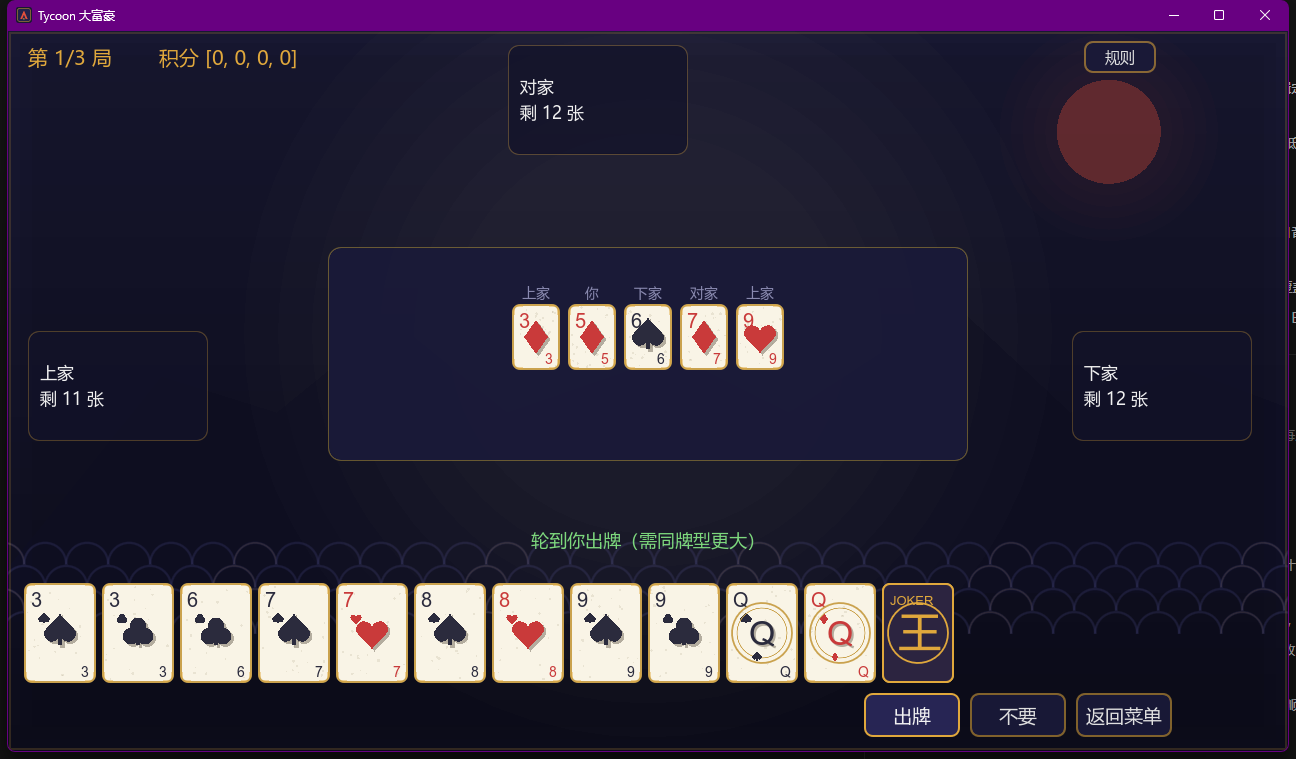
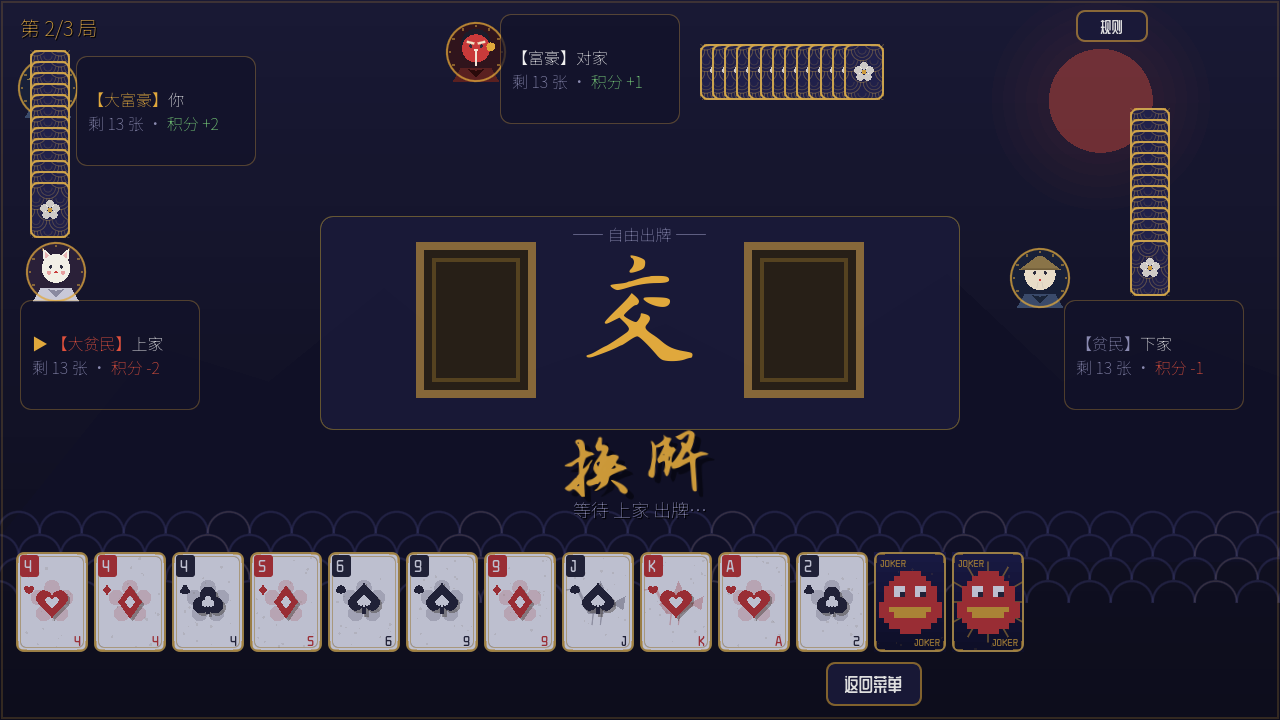
docs(M4/M2): 交付美术风格指南 + 刷新实机截图 + 协议版本标注
- 新增 docs/美术风格指南.md(计划 §5.1 交付项): 风格关键词/界面色板/
  身份色/四套卡面主题/卡面解剖/字体层级/动效规格/禁止事项
- docs/screenshots/windows_table.png 刷新为当前版本
  (身份前置显示/四主题卡面/达摩JOKER/牌背纹样)
- 协议.md 标注 PROTOCOL_VERSION=2 与 v2 变更摘要
- M2 验收 soak(10 房)后台长跑中, 初期数据健康

diff --git a/docs/美术风格指南.md b/docs/美术风格指南.md
@@ -1,0 +1,87 @@
+# 《大富豪》美术风格指南 v1.0
+
+> 本文固化游戏的视觉语言，是 M4 验收"美术对照风格指南逐项审查"的依据。
+> 新增任何 UI/卡面/特效前先对照本文；与本文冲突的视觉改动需要先改本文。
+
+## 1. 风格关键词
+
+**和风 × 现代霓虹（P5 式构图）**：浮世绘纹样与和纸质感做底，描边扁平图形 + 霓虹金/朱红点缀。
+深色底在 OLED 上更省电，也区别于传统"棋牌平台"审美。
+
+- 深靛蓝底 + 朱红/描金主色
+- 和纸颗粒、云纹/浪纹/市松/青海波装饰线
+- 几何化中文标题字（毛笔感），倾斜排版制造张力
+- 图形语言：斜切平行四边形、锯齿星芒、方块点阵
+
+## 2. 色板
+
+### 2.1 界面基础色（`app_theme.gd`）
+
+| 用途 | 色值 | 说明 |
+|---|---|---|
+| 底色 BG | `14142b` 系深靛 | 全局背景 |
+| 面板 PANEL | `22224a` 系 | 卡片/弹窗 |
+| 主金 GOLD | `e0a83c` | 标题/按钮描边/选中态/奖励 |
+| 朱红 RED | `e0503c` | 革命/警告/负面积分 |
+| 白 WHITE | `f0f0f0` | 正文 |
+| 灰蓝 DIM | `8a8ab0` | 次要文字 |
+| 绿 GREEN | `7dd87d` | 成功/轮到你/正积分 |
+
+### 2.2 身份色（座位信息/教程统一使用）
+
+| 身份 | 颜色 |
+|---|---|
+| 大富豪 | 金 `e0a83c` |
+| 富豪 | 白 `f0f0f0` |
+| 贫民 | 灰蓝 `8a8ab0` |
+| 大贫民 | 红 `ff6b6b` |
+
+### 2.3 四套卡面主题（`skins.gd` CARDS，motif 字段）
+
+| 主题 | 参考 | 牌背 | JOKER 像素画 | 数字纹环 | J/QK 纹章 |
+|---|---|---|---|---|---|
+| 和纸 | 传统和风 | 青海波+樱花 | 达摩 | 樱花五瓣环 | 仙鹤 |
+| 墨玉 | 水墨 | 远山月夜+雾带 | 仙鹤 | 圆相禅圈 | 墨龙 |
+| 绯红 | 鬼灭风 | 市松纹+焰芯 | 狐面 | 焰环 | 狐面具 |
+| 苍海 | 航海 | 落日层浪 | 河童 | 波浪环 | 锦鲤 |
+
+## 3. 卡面解剖（程序化绘制，`card_view.gd`）
+
+- 基准尺寸 **72×100**；一切元素按 `s = 高度/100` 等比缩放，小尺寸（商城迷你卡/对手牌背）不得失衡
+- 元素（由外到内）：描金外框(2px, 圆角7) → 内框细线 → 和纸颗粒 → 金色角饰 →
+  左上点数牌匾(牌色底/白字) + 牌匾下角标花色 → 中心主题纹环(数字)/纹章水印(JQK) →
+  中心大花色(投影 + 主色 + 米白内芯) → 右下小点数
+- **牌背**：主题纹样满铺 + 角饰；所有绘制严格限制在牌面内（`clip_contents`）
+- **JOKER**：主题色夜空渐变 + 像素画(达摩/仙鹤/狐面/河童)；大王带金色放射线，小王素面
+- **主题例外**：♠3 单出 key=16.5 比王大（仅单张比较，不可跨牌型）；革命反转仅作用于 3..2 自然牌
+
+## 4. 字体层级
+
+| 层级 | 字体 | 字号 | 用途 |
+|---|---|---|---|
+| 标题 | title_font（毛笔感 CJK） | 24–34 | 界面标题/革命大字 |
+| 强调 | display_font | 15–22 | 按钮/座位信息/状态 |
+| 正文 | body_font（主题 default_font） | 14–18 | 说明/聊天/战绩 |
+
+- 深底文字一律加 `1px 黑色阴影`（`_add_text_shadow`）
+- 身份/积分允许彩色：正分绿、负分红、身份按 §2.2
+
+## 5. 动效原则
+
+| 动效 | 规格 |
+|---|---|
+| 出牌 | 向来源方位飞入 + 回弹缩放（TRANS_BACK），22s% 内完成 |
+| 发牌 | 手牌逐张延迟 0.02s 淡入 |
+| 全屏特效 | 革命/反革命/8切/一落千丈/交换，统一 1.6s，`fx_overlay.gd`，播完自释放 |
+| 倒计时 | 最后 5s 每秒滴答音 |
+| 选中牌 | 上浮放大 7% + 4px 亮金边 + 顶部金三角；未选中微压暗 |
+
+- 特效像素化语言：方块点阵线条、锯齿轮廓、粗描边
+- 特效不拦截鼠标；播放期间对局逻辑照常
+
+## 6. 禁止事项
+
+- 不引入照片位图素材（v1 全程序化绘制）
+- 不使用纯色平铺的"棋牌绿"桌面
+- 不在牌面/大厅使用超过 2 种主色的新配色（新主题需在 `skins.gd` 建完整色板）
+- 不缩小后仍用大尺寸像素值的元素（一律带缩放系数）

diff --git a/docs/开发计划.md b/docs/开发计划.md
@@ -21,6 +21,9 @@
 > 工具 tools/perf_check.gd；优化对手牌背扇数量缓存消除每手节点重建）；
 > 规则规格.md 完成 v2 清理（顺子/階段算法与FAQ）；
 > **CI 纳入联机 E2E**（headless 服务器 + 真实客户端 + 本机开房三链路）；
+> **docs/美术风格指南.md 交付**（§5.1 计划项；色板/身份色/卡面解剖/字体层级/动效原则/禁止事项）；
+> 实机截图刷新（新版卡面美术 + 身份前置显示）；
+> **M2 验收 soak 进行中**：10 机器人房间长跑（--soak 10），初期数据内存平坦零错误；
 > 双真人对战 E2E 验证新换牌流程（VERSUS_OK ×2）；音频清单同步实际接入内容；
 > 此前：Windows 导出链 + 发布产物 E2E 验证、6 机器人压测（65 场零错误）、
 > 安卓 debug/release 双包导出与签名验证、下载页、服务器健康检查端点；
